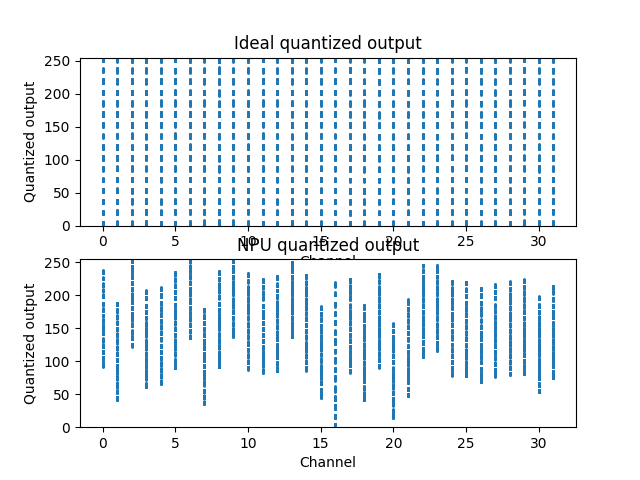
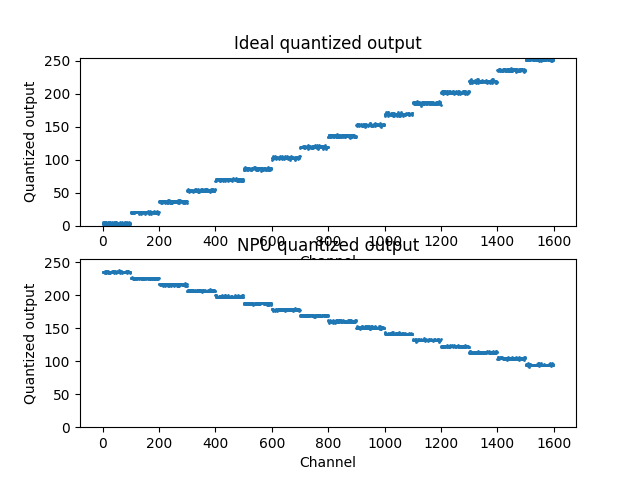
modified:   python/test.py 	modified:   results/quantized_output_scatter_plot.png 	modified:   results/quantized_output_scatter_plot_10.png

diff --git a/python/test.py b/python/test.py
@@ -16,7 +16,7 @@ if __name__ == "__main__":
     # Plot the scatter plot of ideal quantized output for each column
     ax = fig.add_subplot(2, 1, 1)
     columns = np.stack([np.arange(ideal_qtz_output.shape[1])] * ideal_qtz_output.shape[0], axis=0).flatten()
-    ax.scatter(columns, ideal_qtz_output.flatten(), s=1)
+    ax.scatter(range(1600), ideal_qtz_output[:, 0], s=1)
     ax.set_title('Ideal quantized output')
     ax.set_xlabel('Channel')
     ax.set_ylabel('Quantized output')
@@ -24,7 +24,7 @@ if __name__ == "__main__":
     # Plot the scatter plot of NPU quantized output for each column
     ax = fig.add_subplot(2, 1, 2)
     columns = np.stack([np.arange(ideal_qtz_output.shape[1])] * ideal_qtz_output.shape[0], axis=0).flatten()
-    ax.scatter(columns, npu_qtz_output.flatten(), s=1)
+    ax.scatter(range(1600), npu_qtz_output[:, 0], s=1)
     ax.set_title('NPU quantized output')
     ax.set_xlabel('Channel')
     ax.set_ylabel('Quantized output')
